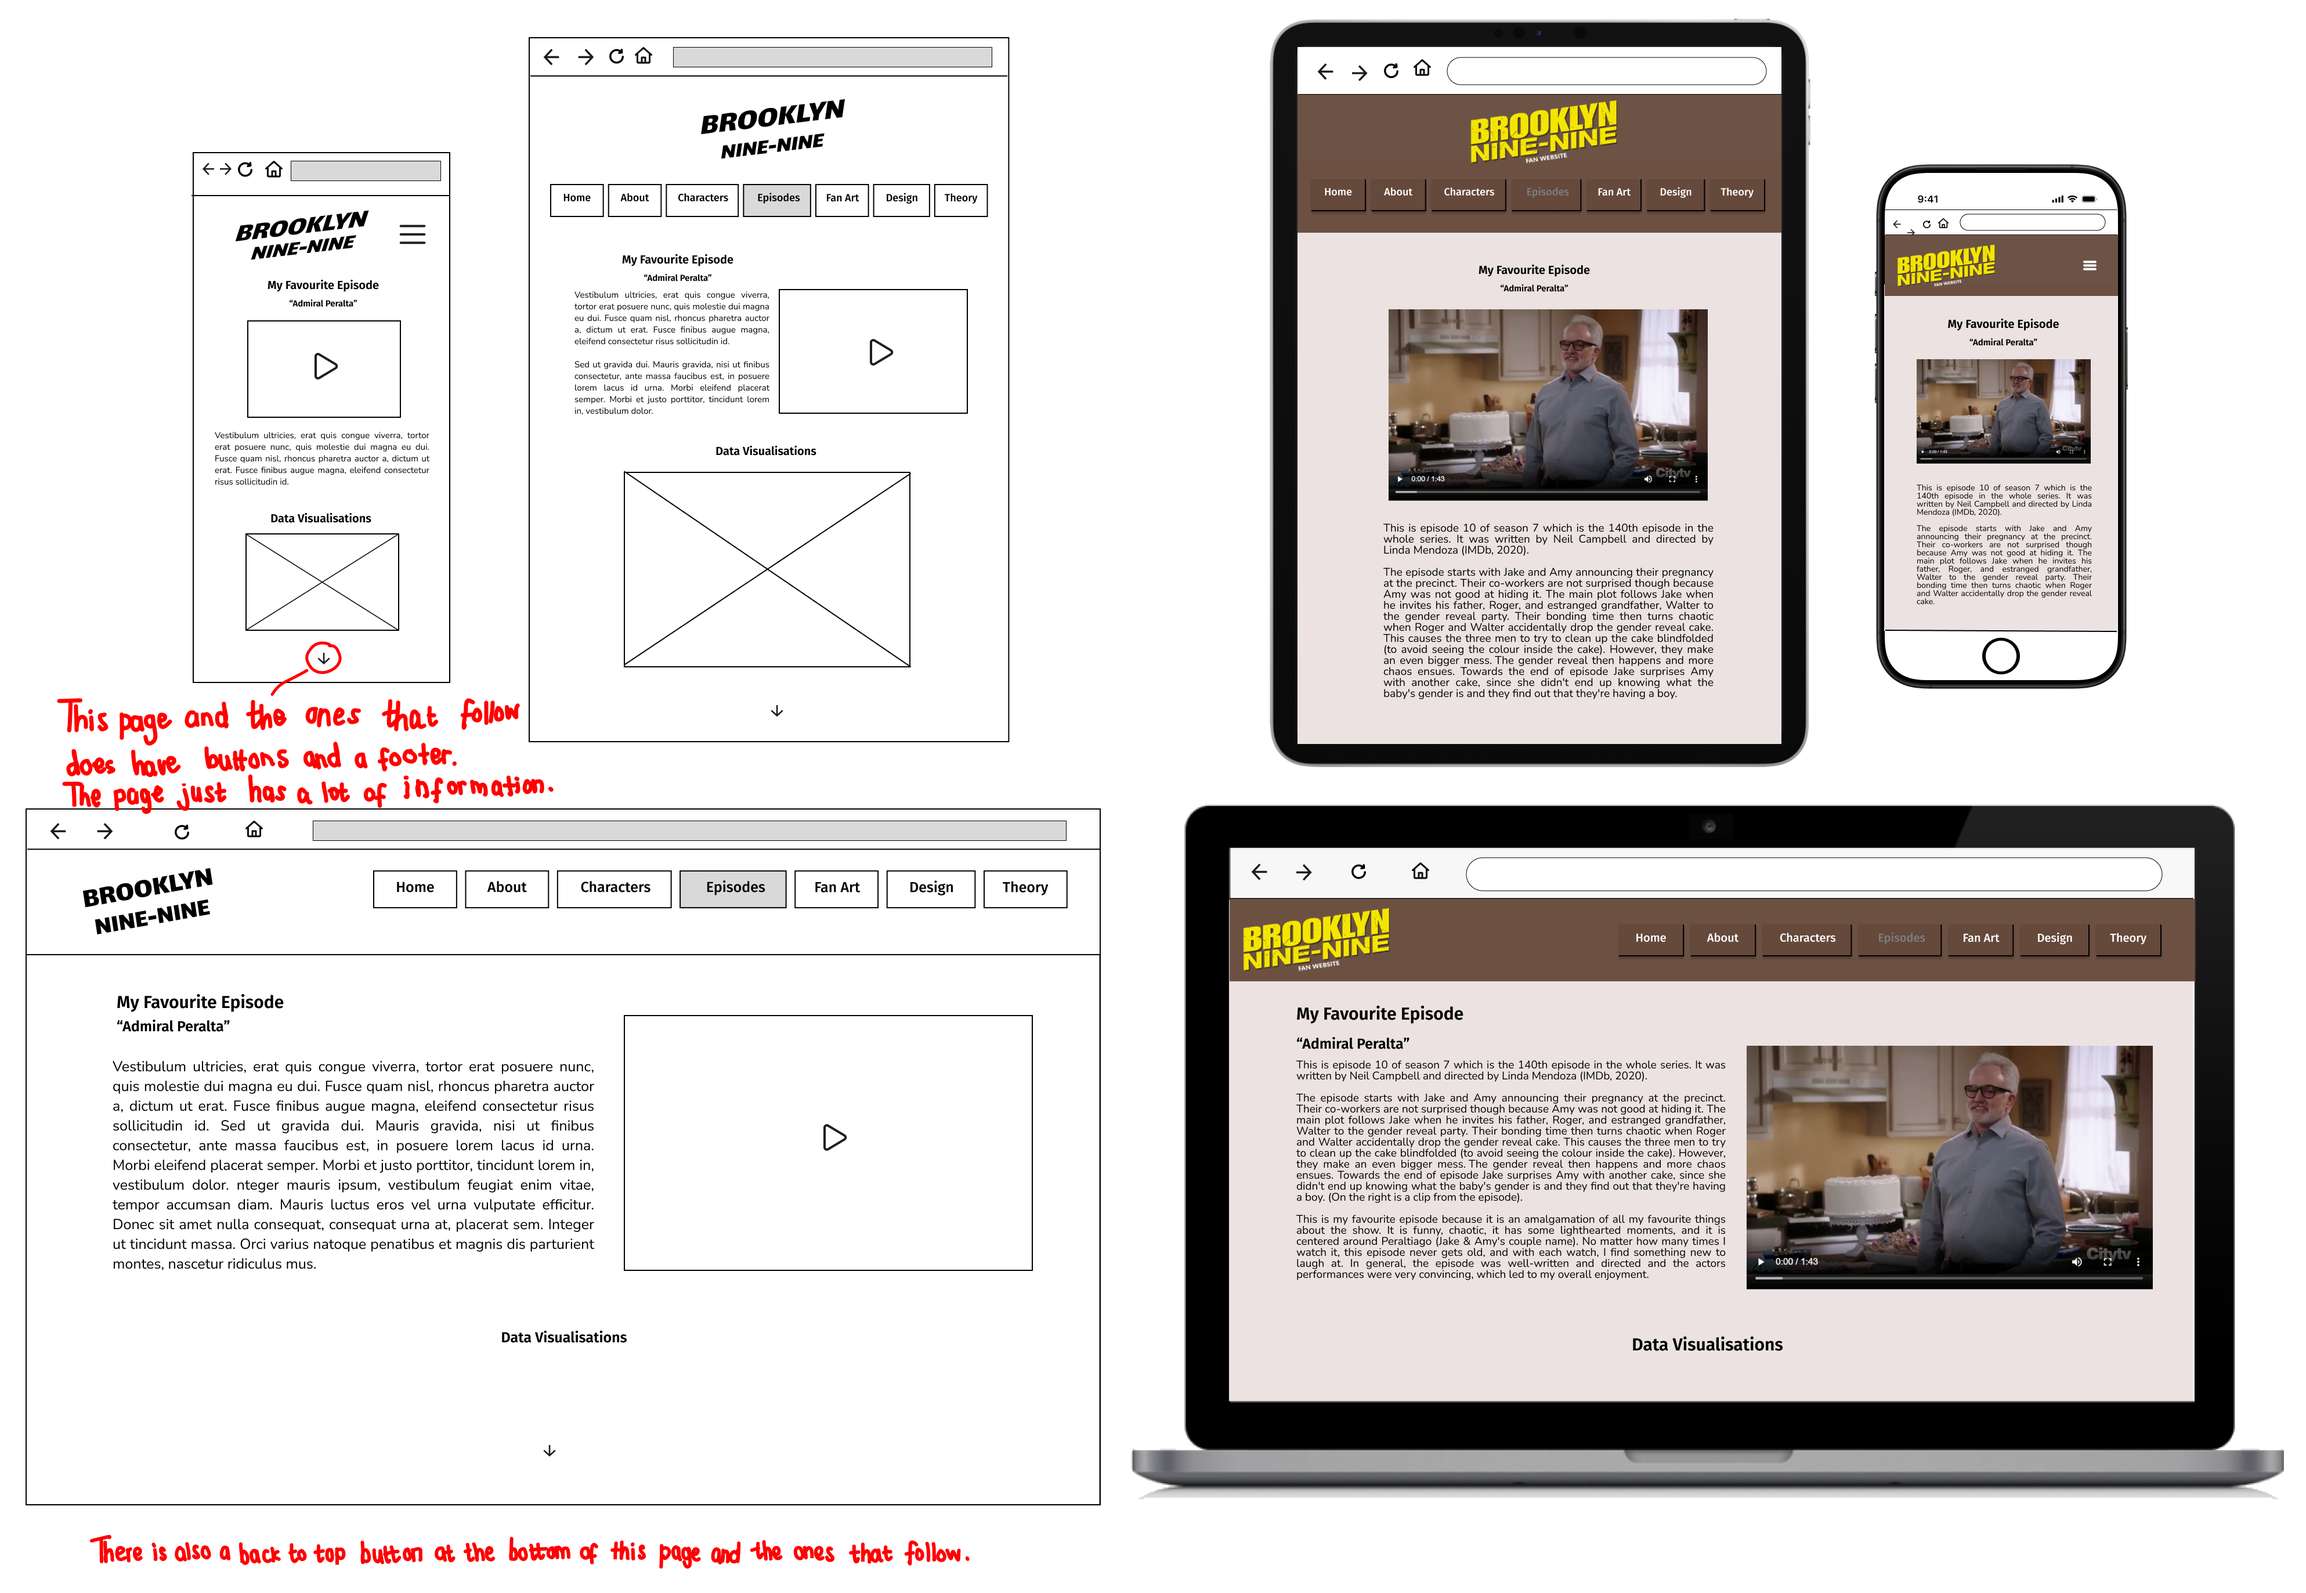
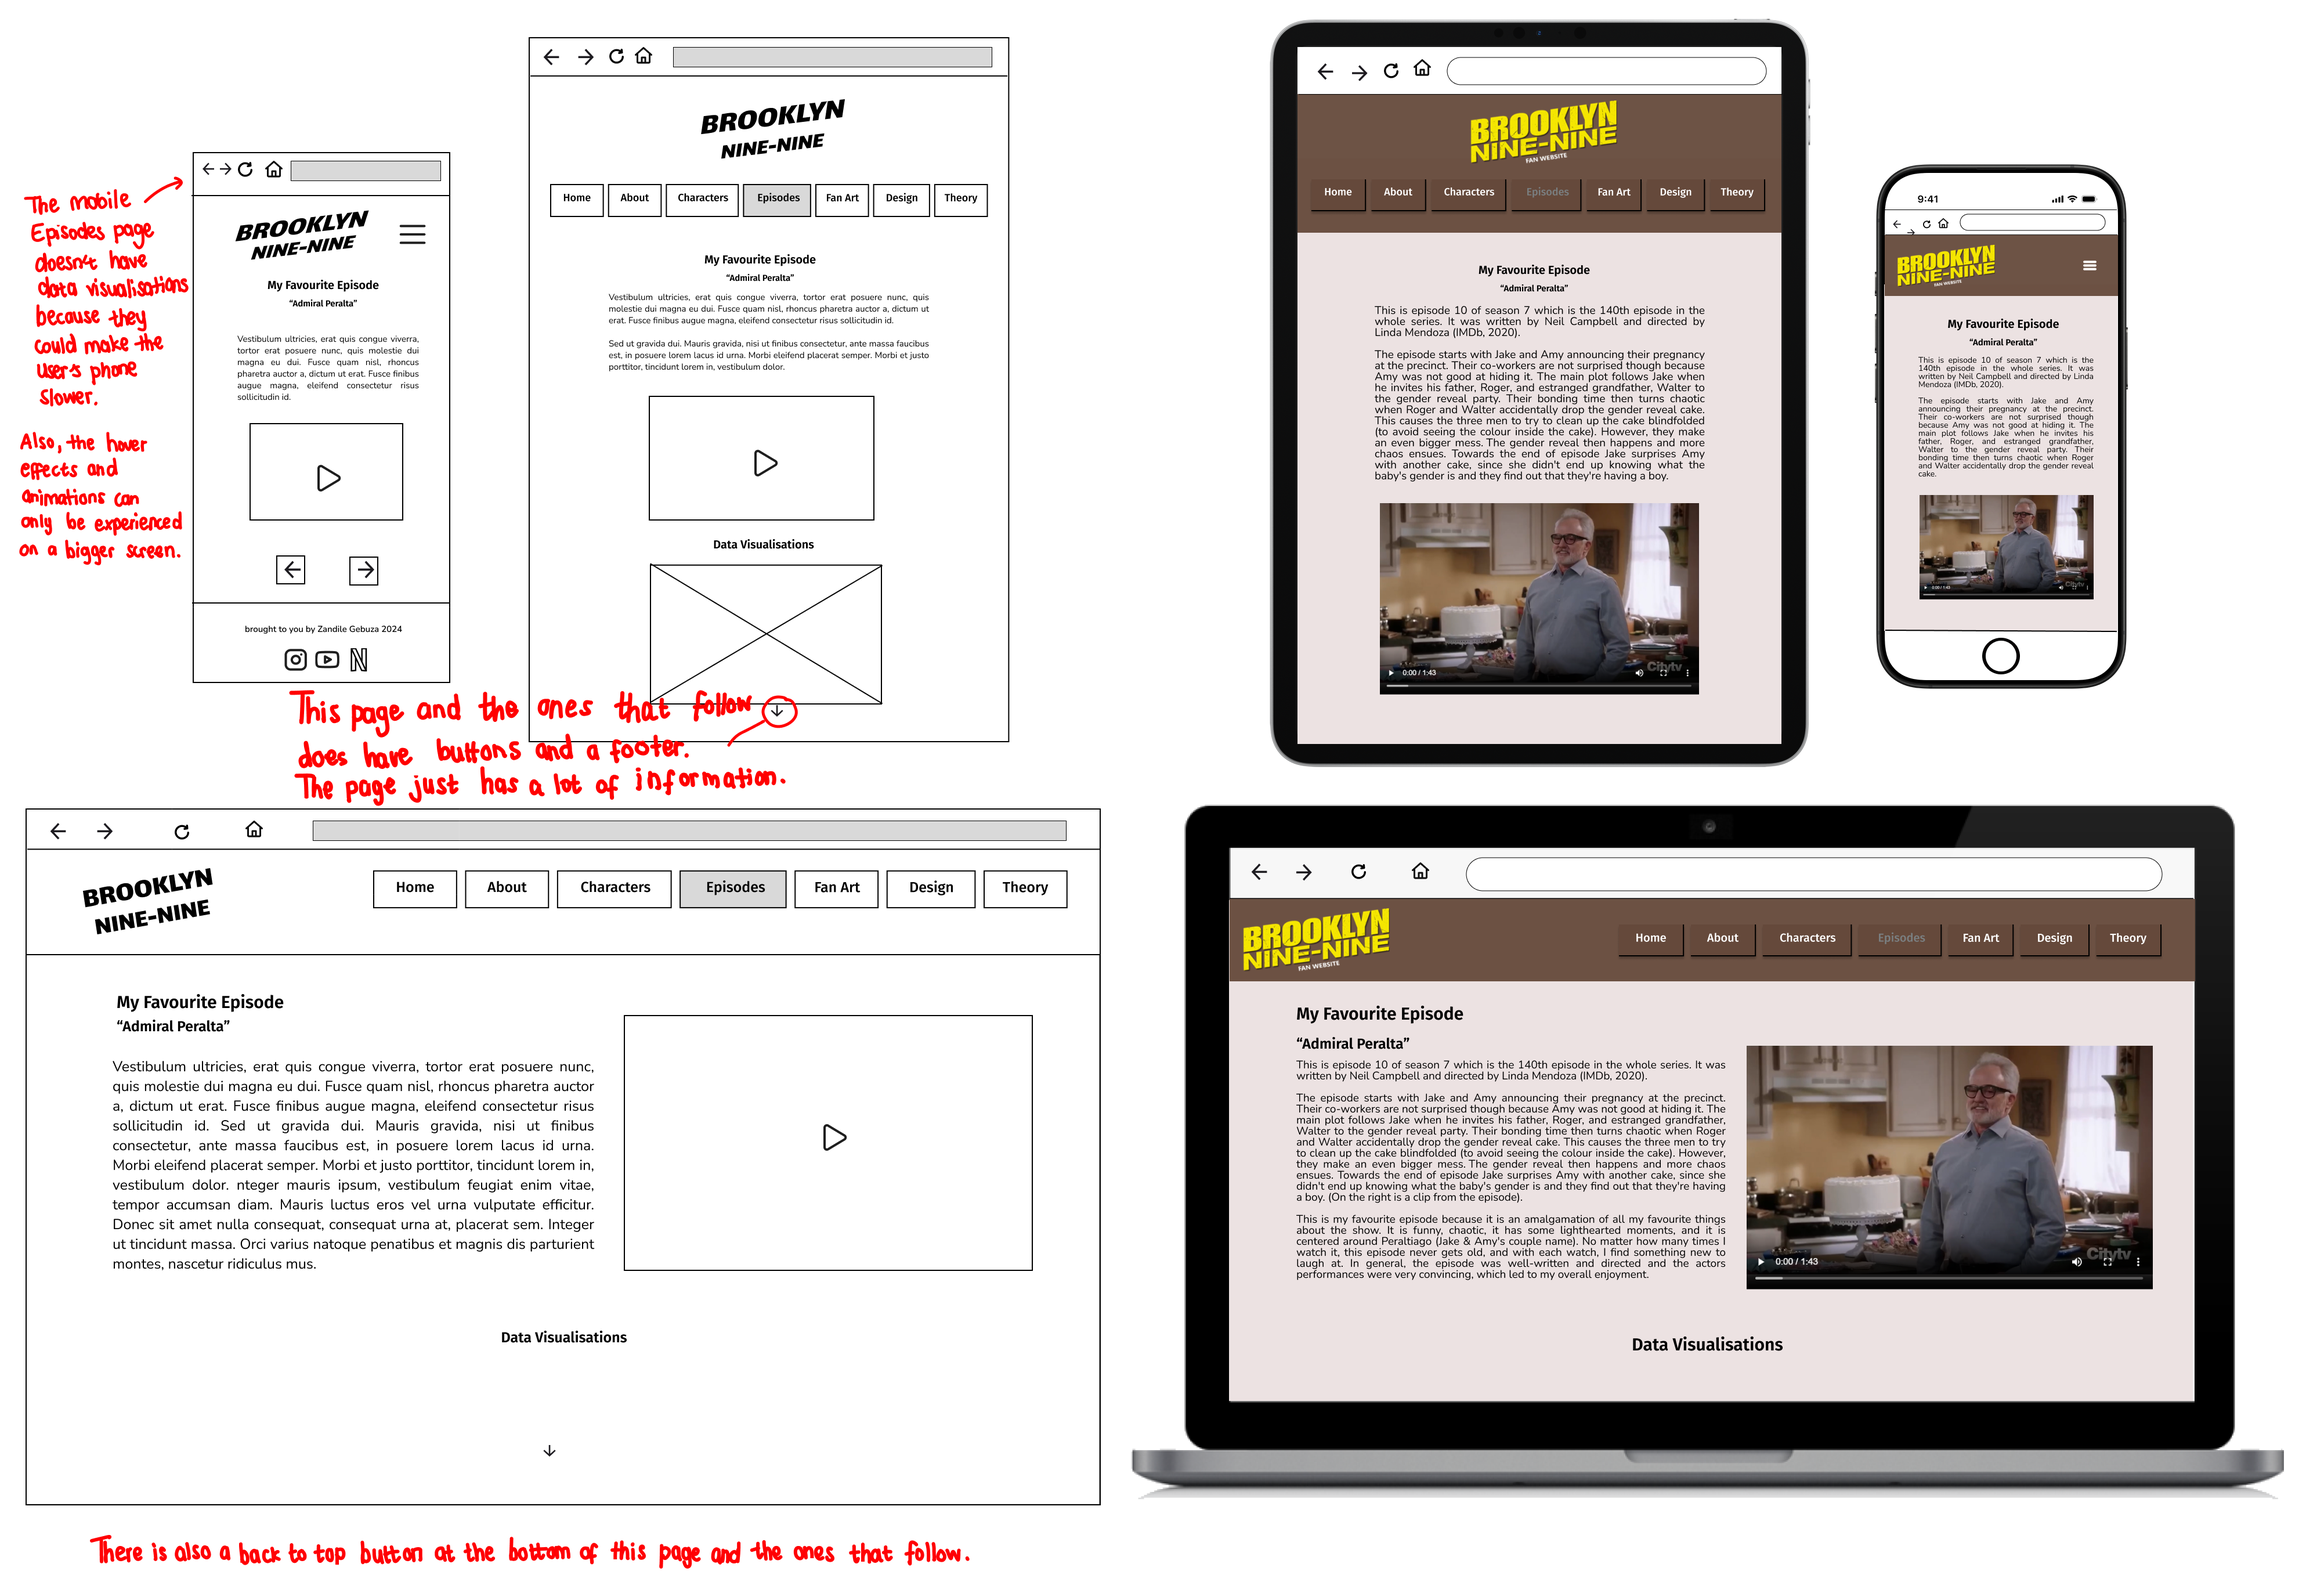
Comments

diff --git a/styles/fan-art.css b/styles/fan-art.css
@@ -103,8 +103,9 @@ main{
     box-shadow: 10px 5px 5px rgba(92, 91, 91, 0.33);
 }
 
-/*Responsive Design*/
-@media (max-width: 500px){
+/*Responsive Design - I included these designs in my wireframes
+  My chosen screen sizes are: 457 x 815 for Mobile, 768 x 1024 for Tablet, and 1920 x 1080 for Desktop*/
+  @media (max-width: 500px){
     .menu{
         display: block;
         margin-left: 24.5rem;

diff --git a/styles/about.css b/styles/about.css
@@ -45,8 +45,9 @@ section{
     border: 0.125rem solid black;
 }
 
-/*Responsive Design*/
-@media (max-width: 500px){
+/*Responsive Design - I included these designs in my wireframes
+  My chosen screen sizes are: 457 x 815 for Mobile, 768 x 1024 for Tablet, and 1920 x 1080 for Desktop*/
+  @media (max-width: 500px){
     .menu{
         display: block;
         margin-left: 24.5rem;

diff --git a/styles/theory.css b/styles/theory.css
@@ -171,8 +171,9 @@ figcaption{
     margin-bottom: 1rem;
 }
 
-/*Responsive Design*/
-@media (max-width: 500px){
+/*Responsive Design - I included these designs in my wireframes
+  My chosen screen sizes are: 457 x 815 for Mobile, 768 x 1024 for Tablet, and 1920 x 1080 for Desktop*/
+  @media (max-width: 500px){
     .menu{
         display: block;
         margin-left: 24.5rem;

diff --git a/styles/episodes.css b/styles/episodes.css
@@ -93,8 +93,9 @@ text{
     font-weight: bold;
 }
 
-/*Responsive Design*/
-@media (max-width: 500px){
+/*Responsive Design - I included these designs in my wireframes
+  My chosen screen sizes are: 457 x 815 for Mobile, 768 x 1024 for Tablet, and 1920 x 1080 for Desktop*/
+  @media (max-width: 500px){
     .menu{
         display: block;
         margin-left: 24.5rem;

diff --git a/styles/design.css b/styles/design.css
@@ -106,8 +106,9 @@ li a{
     height: 35rem;
 }
 
-/*Responsive Design*/
-@media (max-width: 500px){
+/*Responsive Design - I included these designs in my wireframes
+  My chosen screen sizes are: 457 x 815 for Mobile, 768 x 1024 for Tablet, and 1920 x 1080 for Desktop*/
+  @media (max-width: 500px){
     .menu{
         display: block;
         margin-left: 24.5rem;

diff --git a/styles/index.css b/styles/index.css
@@ -71,8 +71,9 @@ footer img:hover{
     }
   }
 
-/*Responsive Design*/
-@media (max-width: 500px){
+/*Responsive Design - I included these designs in my wireframes
+  My chosen screen sizes are: 457 x 815 for Mobile, 768 x 1024 for Tablet, and 1920 x 1080 for Desktop*/
+  @media (max-width: 500px){
     footer{
         display: block;
         height: 8rem;

diff --git a/styles/all-pages.css b/styles/all-pages.css
@@ -116,8 +116,9 @@ footer img:hover{
     background-color: rgb(247, 233, 0);
 }
 
-/*Responsive Design*/
-@media (min-width: 500px){    
+/*Responsive Design - I included these designs in my wireframes
+  My chosen screen sizes are: 457 x 815 for Mobile, 768 x 1024 for Tablet, and 1920 x 1080 for Desktop*/
+  @media (min-width: 500px){    
     
 }
 
